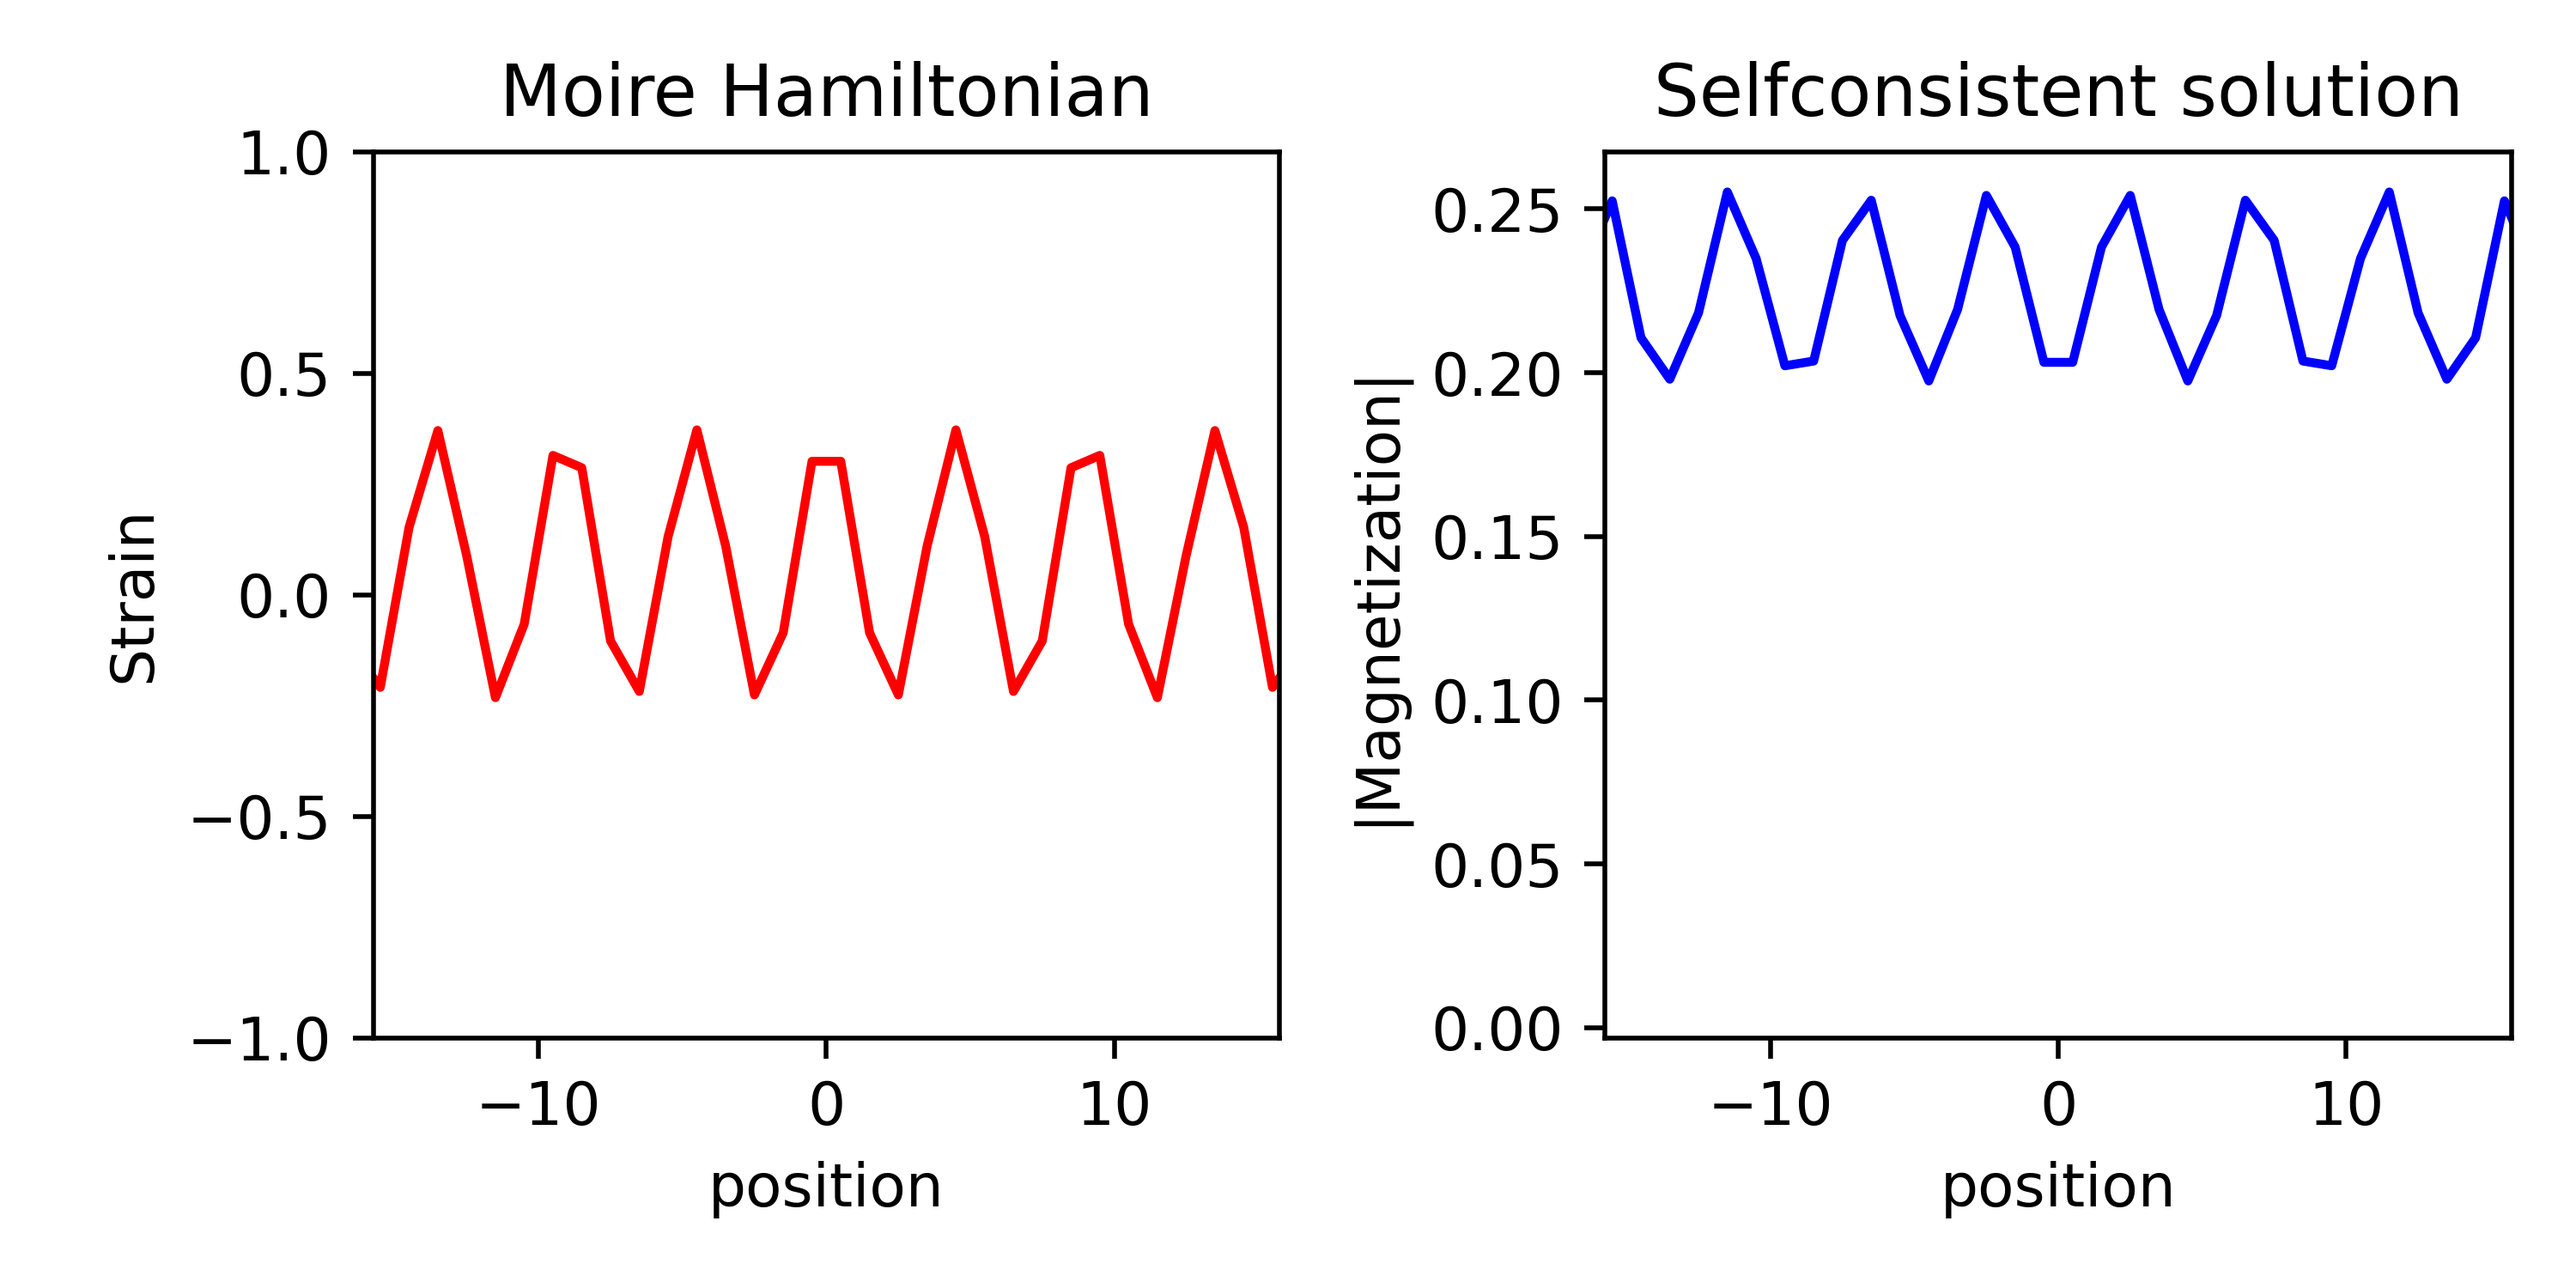
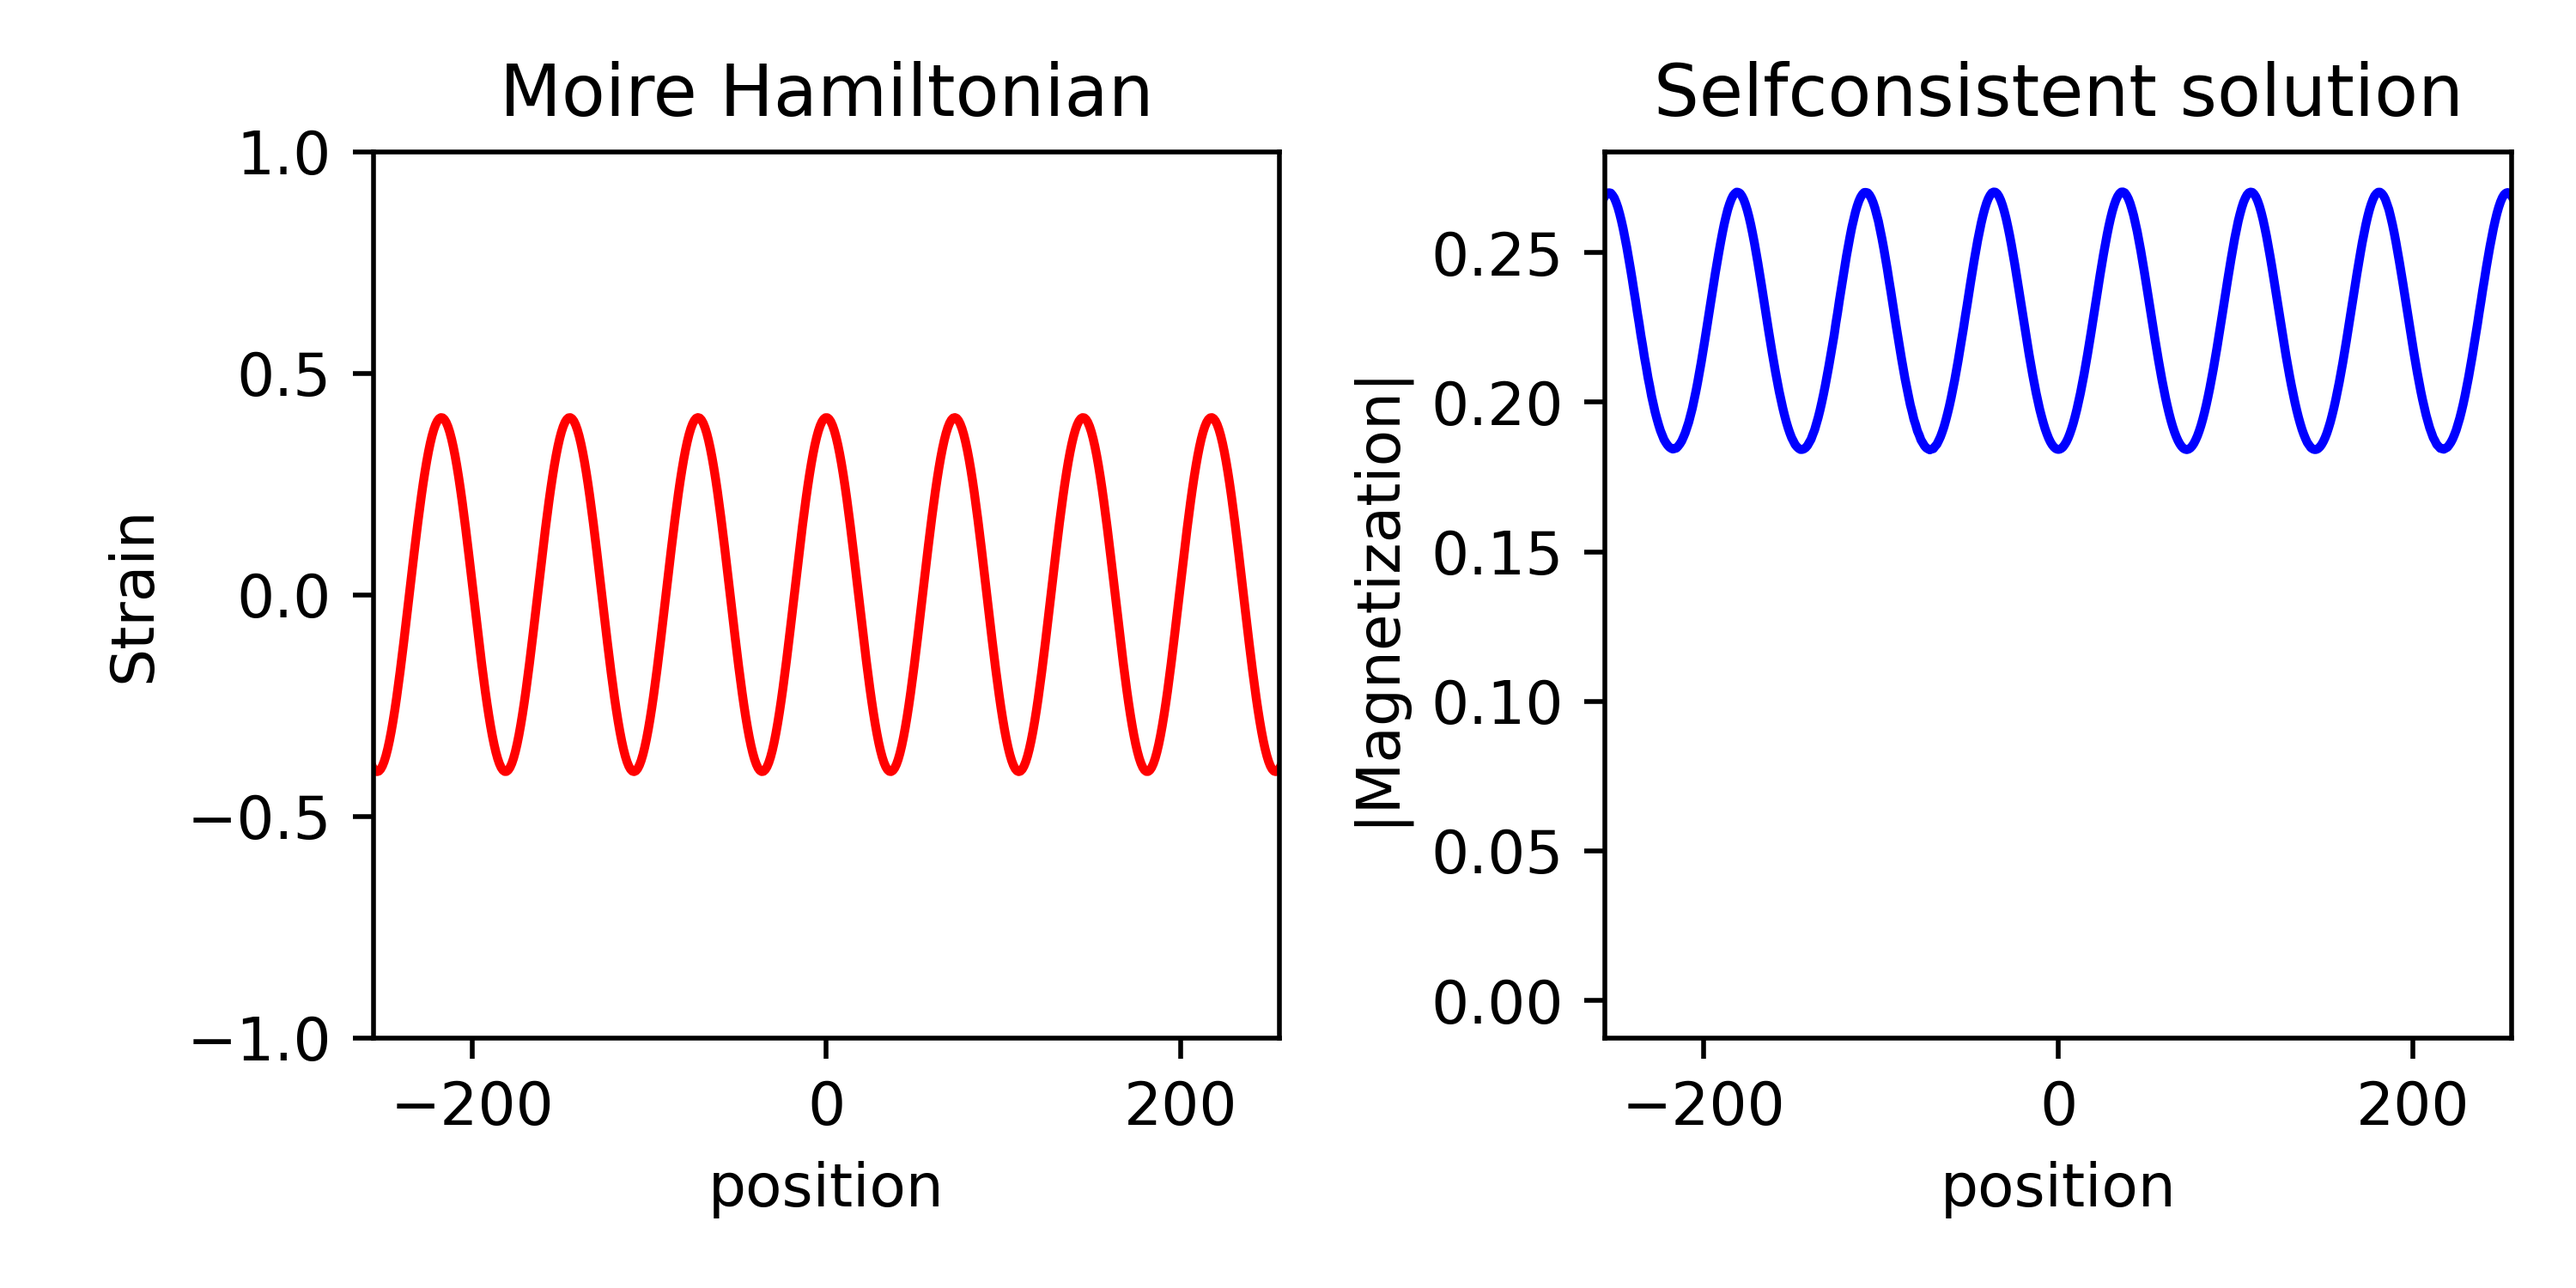
Update

diff --git a/src/qtcipy/tbscftk/dynamicalqtci.py b/src/qtcipy/tbscftk/dynamicalqtci.py
@@ -42,12 +42,16 @@ def get_default(v):
     return qtci_kwargs # return this
 
 
-
+def overwrite_qtci_kwargs(scf,kwargs):
+    """Overwrite the QTCI keyword arguments"""
+    if scf.qtci_kwargs is not None: # if they are set
+        for key in scf.qtci_kwargs: kwargs[key] = scf.qtci_kwargs[key]
 
 from copy import deepcopy as cp
 
 
-def initial_qtci_kwargs(SCF,**kwargs):
+def initial_qtci_kwargs(SCF,use_dynamical_qtci=False,
+        **kwargs):
     """Return a reasonable initial guess for the kwargs
     of a QTCI for an SCF object"""
     if "use_qtci" in kwargs:
@@ -69,9 +73,11 @@ def initial_qtci_kwargs(SCF,**kwargs):
         kw["maxite"] = 1 # one iteration
         mz = SCF0.H0.get_moire()*SCF0.MF[0] # make a guess
         # get some kwargs
-        frac,qtci_kwargs = optimal_qtci(mz,recursive=True) 
-        SCF0.qtci_kwargs = qtci_kwargs # use these ones
-        SCF0.solve(**kw) # one iteration without accuracy
+        if use_dynamical_qtci: # use an adaptive QTCI
+            frac,qtci_kwargs = optimal_qtci(mz,recursive=True) 
+            SCF0.qtci_kwargs = qtci_kwargs # use these ones
+            SCF0.solve(**kw) # one iteration without accuracy
+        else: return qtci_kwargs
         print("SCF Initialization DONE")
         return SCF0.qtci_kwargs
     else: return SCF.qtci_kwargs # return this choice

diff --git a/src/qtcipy/interpolatecpp.py b/src/qtcipy/interpolatecpp.py
@@ -142,6 +142,8 @@ def get_ci(f, qgrid=None, nb=1,
     args.fullPiv = qtci_fullPiv # search the full Pi matrix
     ci = xfacpy.QTensorCI(f1d=f, qgrid=qgrid, args=args)  # construct a tci
     # select the mode
+#    print("Here")
+#    print(qtci_accumulative)
     if qtci_accumulative: # accumulative mode
         ci,qtci_args = accumulative_train(ci,qtci_tol=qtci_tol,nb=nb,f=f,**kwargs)
     else: # conventional mode
@@ -160,14 +162,14 @@ def accumulative_train(ci,qtci_tol=1e-3,qgrid=None,
     if info_qtci:
         print("Accumulative mode")
     ci = xfacpy.to_tci1(ci) # to type one
-    batch = 3 # three times
+    batch = 2 # two times
     while True: # infinite loop
         tols = []
         for j in range(batch): # do this once
             ci.iterate(1) # iterate
             toli = ci.pivotError[len(ci.pivotError)-1] # tolerance in evaluated points
             tols.append(toli) # store
-        if np.mean(tols)<qtci_tol: 
+        if np.max(tols)<qtci_tol: 
 #            print("Accumulative reached error, stopping",np.min(tols))
             break # stop loop
         # other stopping criteria

diff --git a/src/qtcipy/tbscftk/hubbard.py b/src/qtcipy/tbscftk/hubbard.py
@@ -144,7 +144,10 @@ def SCF_Hubbard(scf,maxerror=1e-3,maxite=None,
         else: # compute explicitly
             ddn = get_den(hdn,log=log0,**kwargs) # generate down density
             dup = get_den(hup,log=log0,**kwargs) # generate up density
+        # overwrite the QTCI keyword arguments
         from .dynamicalmixing import error_hubbard
+        from .dynamicalqtci import overwrite_qtci_kwargs
+        overwrite_qtci_kwargs(scf,kwargs) # overwrite parameters
         error = error_hubbard([dup,ddn],[dup_old,ddn_old]) # compute error
 #        error = np.mean(np.abs(ddn-ddn_old) + np.abs(dup-dup_old)) # error
         if log is not None: # do the logs

diff --git a/examples/README_examples/chain_KPQTC/main.py b/examples/README_examples/chain_KPQTC/main.py
@@ -4,7 +4,7 @@ sys.path.append(os.getcwd()+"/../../../src")
 from qtcipy.tbscftk import hamiltonians
 import numpy as np
 
-L = 6 # exponential length, leads to 2**L sites
+L = 10 # exponential length, leads to 2**L sites
 H = hamiltonians.chain(L) # get the Hamiltonian
 
 def f(r):
@@ -16,7 +16,7 @@ H.modify_hopping(f) # modify the hopping
 SCF = H.get_SCF_Hubbard(U=3.0) # generate a selfconsistent object
 
 SCF.solve(use_qtci=True,use_kpm=True,info=True,info_qtci=True,delta=1e-1,
-        maxite=10)
+        maxite=10,use_dynamical_qtci=True)
 Mz = SCF.Mz # selfconsistent magnetization
 
 

diff --git a/src/qtcipy/tbscftk/scf.py b/src/qtcipy/tbscftk/scf.py
@@ -28,6 +28,7 @@ class SCF_Hubbard():
         from .hubbard import SCF_Hubbard
         from .dynamicalqtci import initial_qtci_kwargs
         self.qtci_kwargs = initial_qtci_kwargs(self,**kwargs)
+        for key in self.qtci_kwargs: kwargs[key] = self.qtci_kwargs[key]
         return SCF_Hubbard(self,**kwargs)
     def estimate_time(self,**kwargs):
         from .timeestimator import testimate

diff --git a/src/qtcipy/qtcirecipes.py b/src/qtcipy/qtcirecipes.py
@@ -6,7 +6,7 @@ from .qtcirecipestk.qtcikernels import random_kernel as random_qtci_kernel
 
 
 methods = ["maxm","accumulative"]
-#methods = ["maxm"]
+methods = ["accumulative"]
 
 
 #### Acummulative mode has segfault randomly ####

diff --git a/README.md b/README.md
@@ -20,7 +20,7 @@ the kernel polynomial method for an interacting Hubbard Hamiltonian.
 from qtcipy.tbscftk import hamiltonians
 import numpy as np
 
-L = 8 # exponential length, leads to 2**L sites
+L = 12 # exponential length, leads to 2**L sites
 H = hamiltonians.chain(L) # get the Hamiltonian
 
 def f(r):
